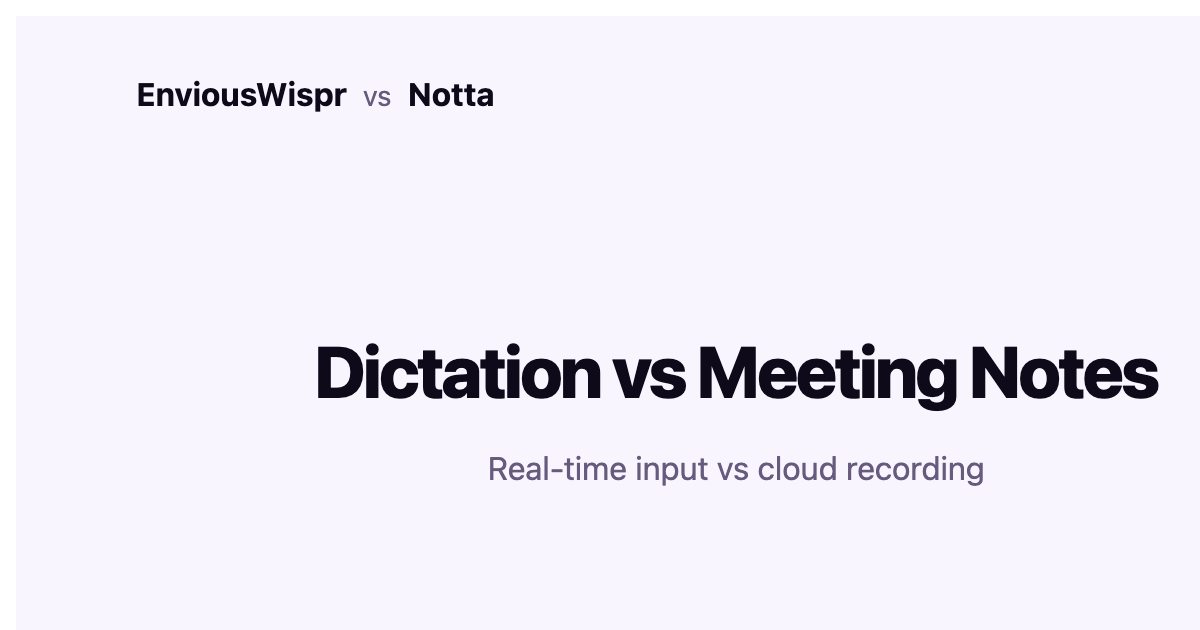
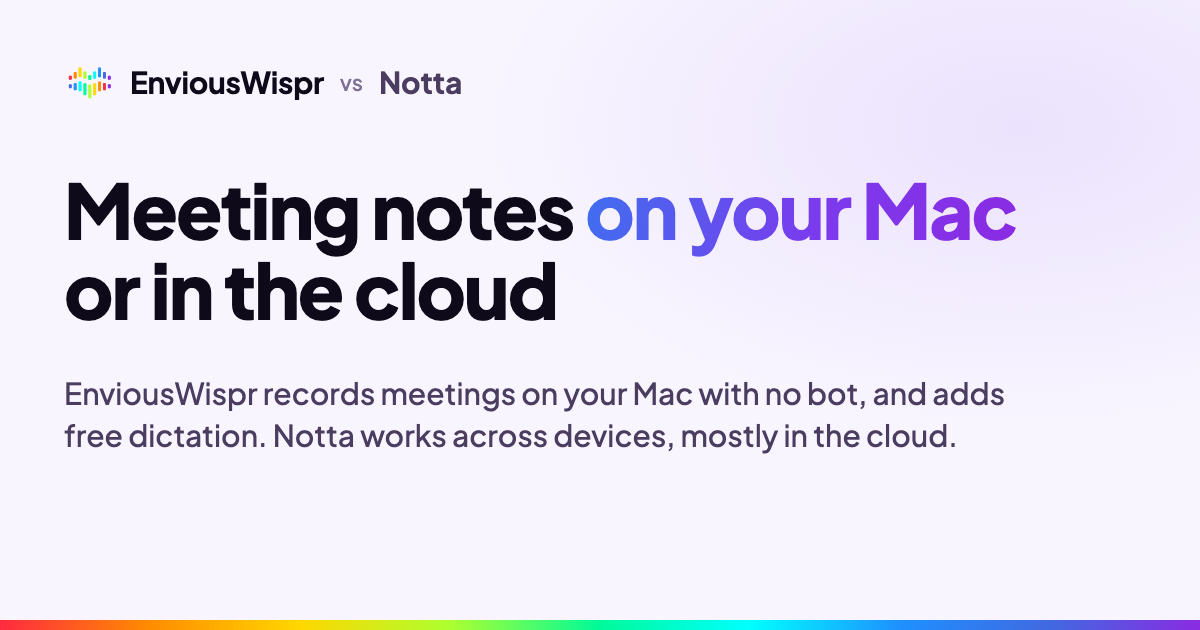
docs(website): comparison pages match EnviousMeet at the v2.6.0 launch (#4145) (#4417)
* docs(website): comparison pages say EnviousWispr records meetings (#4145)

With the EnviousMeet release, pages that said EnviousWispr cannot record or
transcribe meetings become false. Otter.ai and Notta are reframed (title,
description, h1, FAQs in JSON-LD and visible copies, table, deep dive,
honest cards); Superwhisper, FluidVoice, WisprFlow, Spokenly, TypeWhisper,
MacWhisper and the best-apps guide get their meeting rows and cards fixed;
data/compare.js, llms.txt and one blog footer follow. Competitor advantages
stay named (meeting bots, team workspaces, cross-meeting search, live
speaker identification, integrations, transcript editing and playback).
Privacy lines scoped: meeting audio stays on the Mac until deleted; a cloud
summary sends the transcript and notes.

Codex review two rounds to CLEAN. Merge with the EnviousMeet release.

Part of #4145

* docs(website): new Otter.ai and Notta share images for EnviousMeet (#4145)

Both OG images said "Dictation vs Meeting Notes". New 1200x630 images use the
real logo (website/public/favicon.svg), brand tokens, Plus Jakarta Sans and
the lavender background: "Meeting notes on your Mac or in the cloud", with a
one-line comparison. Other compare OG images make no meeting claim.

Part of #4145

* docs(website): comparison pages match EnviousMeet at the v2.6.0 launch (#4145)

Rebased #4146 onto main and corrected our claims that changed since it was
written: live speaker labels (#4355, #4410) replace "speakers labelled only
[…]

diff --git a/website/src/pages/llms.txt.ts b/website/src/pages/llms.txt.ts
@@ -22,7 +22,7 @@ const SITE = 'https://enviouswispr.com';
 // Pages whose catalog entry has no card line of its own.
 const CATALOG_NOTES: Record<string, string> = {
   features: 'Every feature of the free Mac app, each on its own page.',
-  privacy: 'What cloud dictation sends away, what EnviousWispr keeps local, and what goes out only if you choose cloud text polish.',
+  privacy: 'What cloud dictation sends away, what EnviousWispr keeps local, and what goes out only if you choose cloud text polish or cloud meeting summaries.',
   customization: 'Record key, start and stop sounds, how text lands, and the overlay position.',
   android: 'The free Android app on Google Play: on-device speech recognition and AI polish, with text inserted where you type. Android 13+, 64-bit, 6 GB memory or more.',
 };
@@ -42,8 +42,8 @@ const COMPARISONS: [string, string, string][] = [
   ['vox', 'vs Vox', 'Two Mac dictation apps compared.'],
   ['juno', 'vs Juno', 'Two Mac dictation apps compared.'],
   ['willow-voice', 'vs Willow Voice', 'A free on-device alternative to a cloud-first subscription.'],
-  ['otter-ai', 'vs Otter.ai', 'Personal dictation versus meeting transcription.'],
-  ['notta', 'vs Notta', 'Personal on-device dictation versus a cloud transcription service.'],
+  ['otter-ai', 'vs Otter.ai', 'Meetings recorded on your Mac with no bot, plus dictation, versus a cloud meeting service.'],
+  ['notta', 'vs Notta', 'On-device meeting recording and dictation versus a cloud meeting platform.'],
   ['dragon', 'vs Dragon', 'A modern on-device alternative to legacy desktop dictation.'],
   ['google-docs-voice-typing', 'vs Google Docs voice typing', 'System-wide dictation versus Docs-only voice typing.'],
   ['gboard-voice-typing', 'vs Gboard voice typing', 'Android dictation with on-device AI polish versus the keyboard microphone.'],
@@ -68,7 +68,7 @@ export async function GET() {
   const out: string[] = [
     '# EnviousWispr',
     '',
-    '> Free, private voice-to-text for macOS. Hold a keybind, speak, release. Polished text lands on your clipboard or pastes directly. Transcription runs on-device with Parakeet (25 European languages) or Whisper Large v3 Turbo (99+ languages). Optional AI polish can stay on-device with EG-1, Apple Intelligence, or a local Ollama model; Ollama also offers hosted models that run on its servers, and OpenAI, Gemini and Claude are optional bring-your-own-key cloud providers. No account, no subscription. Free download.',
+    '> Free, private voice-to-text for macOS. Hold a keybind, speak, release. Polished text lands on your clipboard or pastes directly. Transcription runs on-device with Parakeet (25 European languages) or Whisper Large v3 Turbo (99+ languages). Optional AI polish can stay on-device with EG-1, Apple Intelligence, or a local Ollama model; Ollama also offers hosted models that run on its servers, and OpenAI, Gemini and Claude are optional bring-your-own-key cloud providers. EnviousMeet, built in, records calls and in-person meetings on the Mac with no bot (the microphone, plus the sound the Mac plays on macOS 14.2+) and writes a transcript with who said what on the Mac, with notes and an optional summary from the summary engine the user picks in EnviousMeet. No account, no subscription. Free download.',
     '',
     'Maker: Envious Labs LLC (Connecticut, USA). Founder: Saurabh Vaish.',
     'License: GNU General Public License v3 (GPLv3, open source on GitHub).',

diff --git a/website/src/data/compare.js b/website/src/data/compare.js
@@ -66,7 +66,7 @@ export const groups = [
   ] },
   { title: 'Everyday use', rows: [
     { label: 'Workflow', cells: {
-      ew: cell('Dictate & transcribe files', 'Dictation into your apps, plus recordings you import.'),
+      ew: cell('Dictation, files & meetings', 'Dictation into your apps, recordings you import, and meetings on your Mac.'),
       flow: cell('Dictation across devices', 'Mac, Windows, iOS and Android.'),
       super: cell('Dictation & meetings', 'Mac, Windows, iOS and Android. Voice models, custom prompts and modes.'),
       mac: cell('Files, meetings & dictation', 'Includes subtitle and batch workflows.'),

diff --git a/website/src/content/blog/meeting-notes-polished-summaries.md b/website/src/content/blog/meeting-notes-polished-summaries.md
@@ -95,4 +95,4 @@ A few tips for getting started:
 
 Your next meeting is probably in an hour. That's enough time to install the app and have it ready for your first post-meeting dictation. Try it once. If the summary that comes back is better than what you'd have typed in five minutes (and it will be) you won't go back to the old way.
 
-*Looking for meeting transcription? See [vs Otter.ai](/compare/otter-ai/), [vs Notta](/compare/notta/), or [browse all comparisons](/compare/).*
+*Want the whole meeting recorded and transcribed? EnviousMeet, built into EnviousWispr, records calls and in-person meetings on your Mac with no bot. Comparing tools? See [vs Otter.ai](/compare/otter-ai/), [vs Notta](/compare/notta/), or [browse all comparisons](/compare/).*
